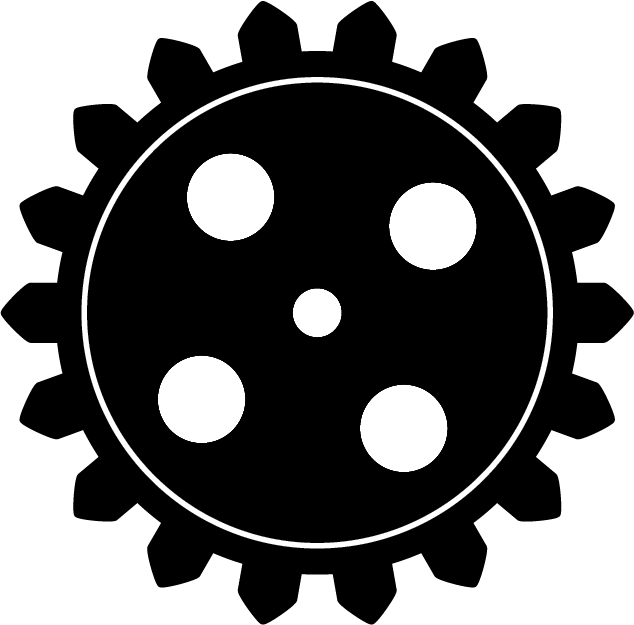
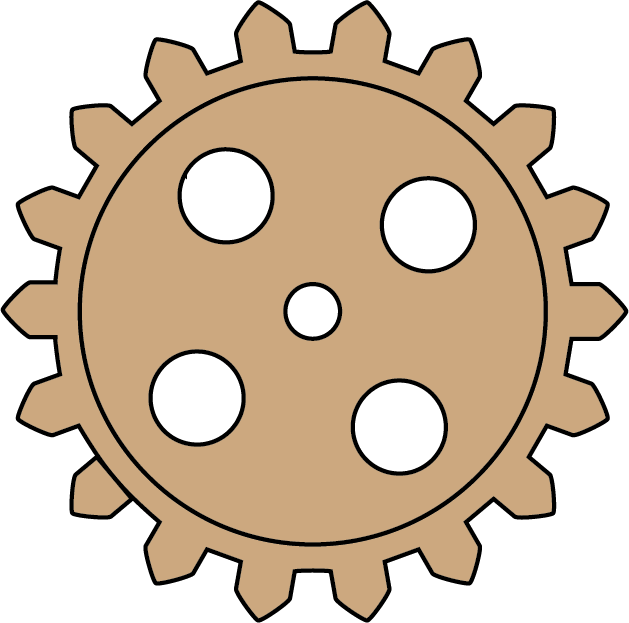
fixed gears

diff --git a/lib/features/presentation/widgets/top_of_the_screen.dart b/lib/features/presentation/widgets/top_of_the_screen.dart
@@ -1,4 +1,3 @@
-
 import 'package:flutter/material.dart';
 import 'package:flutter_bloc/flutter_bloc.dart';
 import 'package:statrco/features/presentation/constants.dart';
@@ -6,8 +5,6 @@ import 'package:statrco/features/presentation/cubit/turing_cubit.dart';
 import 'package:statrco/features/presentation/widgets/turing_list_view.dart';
 
 import '../cubit/turing_state.dart';
-
-
 
 class TopOfTheScreen extends StatelessWidget {
   const TopOfTheScreen({
@@ -19,46 +16,64 @@ class TopOfTheScreen extends StatelessWidget {
 
   @override
   Widget build(BuildContext context) {
-    return Column(
-      mainAxisAlignment: MainAxisAlignment.center,
-      children: [
-        BlocBuilder<TuringCubit, OneStep>(
-          builder: (context, state) {
-                
-            if (ctrlList.hasClients) {
-              int index = state.indexInList;
-              if (index ==0) {
-                index = 100;
-              }
-              ctrlList.animateTo(
-                 index * cellWidth -
-                      displayWidth(context) / 2 +
-                      cellWidth / 2,
-                  curve: Curves.elasticInOut,
-                  duration: Duration(milliseconds: (context.read<TuringCubit>().duration*(3/4)).toInt()));
-            }
-                
-            // oneMove *5- displayWidth(context)/2+oneMove/2;
-            return Column(
-              children: [
-            TuringListView(
-              list: state.list,
-              controller: ctrlList,
-            ),
-            Center(
-              child: SizedBox(
-                  height: 55,
-                  width: 77,
-                  child: Image.asset(
-                    "assets/photos/arrow.png",
-                    fit: BoxFit.contain,
-                  )),
-            )
-              ],
-            );
-          },
-        ),
-      ],
+    return BlocBuilder<TuringCubit, OneStep>(
+      builder: (context, state) {
+        if (ctrlList.hasClients) {
+          int index = state.indexInList;
+          if (index == 0) {
+            index = 100;
+          }
+          ctrlList.animateTo(
+              index * cellWidth - displayWidth(context) / 2 + cellWidth / 2,
+              curve: Curves.elasticInOut,
+              duration: Duration(
+                  milliseconds: (context.read<TuringCubit>().duration * (3 / 4))
+                      .toInt()));
+        }
+
+        // oneMove *5- displayWidth(context)/2+oneMove/2;
+        return Container(
+          padding: EdgeInsets.only(top: 15),
+          child: Stack(
+            // alignment: AlignmentDirectional.center,
+            children: [
+              TuringListView(
+                list: state.list,
+                controller: ctrlList,
+              ),
+              Stack(
+                // fit: StackFit.expand,
+                alignment: AlignmentDirectional.center,
+                children: [
+                  Positioned(
+                    top: 77,
+                    child: SizedBox(
+                        height: 55,
+                        width: 77,
+                        child: Image.asset(
+                          "assets/photos/arrow.png",
+                          fit: BoxFit.contain,
+                        )),
+                  ),
+                  Positioned(
+                    top: 111,
+                    child: SizedBox(
+                        height: 188,
+                        width: 188,
+                        child: Image.asset(
+                          "assets/photos/tablo.png",
+                          fit: BoxFit.contain,
+                        )),
+                  ),
+                  Positioned(
+                    top: 129,
+                    child: Text(state.currentState))
+                ],
+              ),
+            ],
+          ),
+        );
+      },
     );
   }
 }

diff --git a/lib/features/presentation/pages/turing_machine_page.dart b/lib/features/presentation/pages/turing_machine_page.dart
@@ -1,6 +1,5 @@
 import 'package:flutter/material.dart';
 import 'package:flutter_bloc/flutter_bloc.dart';
-import 'package:statrco/features/presentation/widgets/gear.dart';
 import 'package:statrco/features/presentation/widgets/settings.dart';
 
 import '../../domain/entities/infinit_list_model.dart';
@@ -25,7 +24,6 @@ class _TuringMachinePageState extends State<TuringMachinePage> {
   Widget build(BuildContext context) {
     return Scaffold(
         appBar: AppBar(
-          
           backgroundColor: Colors.black12,
           title: Row(
             children: [
@@ -39,44 +37,44 @@ class _TuringMachinePageState extends State<TuringMachinePage> {
                     context.read<TuringCubit>().stop();
                   },
                   icon: const Icon(Icons.pause)),
-
               const Spacer(),
-
               IconButton(
                   onPressed: () {
                     showModalBottomSheet(
-                      shape: const RoundedRectangleBorder(
-                        borderRadius: BorderRadius.vertical(
-                          top: Radius.circular(15)
-                        )
-                      ),
-                      context: context, builder: ((context) => const Settings()));
+                        shape: const RoundedRectangleBorder(
+                            borderRadius: BorderRadius.vertical(
+                                top: Radius.circular(15))),
+                        context: context,
+                        builder: ((context) => const Settings()));
                   },
                   icon: const Icon(Icons.settings)),
             ],
           ),
         ),
-        
         body: BlocBuilder<TuringCubit, OneStep>(
           builder: (context, state) {
             // context.read<TuringCubit>().init();
 
             return Container(
-              color: Color.fromRGBO(207, 178, 135, 1),
               // decoration: const BoxDecoration(image: DecorationImage(image: AssetImage("assets/photos/background_top.png")) ),
-              child: Column(
+              child: Stack(
                 children: [
-                  Flexible(
-                    flex: 3,
-                    child: Stack(                      
-                      children: [
-                        BackgroundGears(),
-                        TopOfTheScreen(ctrlList: ctrlList),
-                      ],
-                      
-                    ),
+
+                  Column(
+                    children: [
+                      Flexible(
+                        flex: 3,
+                        child: Stack(
+                          
+                          children: [
+                            const BackgroundGears(),
+                            TopOfTheScreen(ctrlList: ctrlList),
+                          ],
+                        ),
+                      ),
+                       Flexible(flex: 2, child: BottomPartOfScreen()),
+                    ],
                   ),
-                  const Flexible(flex: 2, child: BottomPartOfScreen()),
                 ],
               ),
             );
@@ -84,5 +82,3 @@ class _TuringMachinePageState extends State<TuringMachinePage> {
         ));
   }
 }
-
-

diff --git a/lib/features/presentation/widgets/bottom_part_of_screen.dart b/lib/features/presentation/widgets/bottom_part_of_screen.dart
@@ -1,4 +1,3 @@
-
 import 'package:flutter/material.dart';
 import 'package:flutter_bloc/flutter_bloc.dart';
 import 'package:statrco/features/presentation/widgets/table.dart';
@@ -6,18 +5,19 @@ import 'package:statrco/features/presentation/widgets/table.dart';
 import '../cubit/table_cubit.dart';
 
 class BottomPartOfScreen extends StatelessWidget {
-  const BottomPartOfScreen({
+   BottomPartOfScreen({
     Key? key,
   }) : super(key: key);
+final TextEditingController controller =TextEditingController(text: "0");
 
   @override
   Widget build(BuildContext context) {
     return Container(
       decoration: const BoxDecoration(
-        border: Border(top: BorderSide(width: 3,color: Color.fromARGB(255, 58, 41, 29))),
-      color: 
-      Color.fromARGB(81, 0, 0, 0),
-      // Color.fromARGB(255, 177, 134, 75),
+        border: Border(
+            top: BorderSide(width: 3, color: Color.fromARGB(255, 58, 41, 29))),
+        color: Color.fromARGB(40, 70, 0, 0),
+        // Color.fromARGB(255, 177, 134, 75),
       ),
       child: InteractiveViewer(
         maxScale: 2,
@@ -31,9 +31,10 @@ class BottomPartOfScreen extends StatelessWidget {
               crossAxisAlignment: CrossAxisAlignment.start,
               children: [
                 Container(
-                  padding: const EdgeInsets.all(7),
+                    padding: const EdgeInsets.all(7),
                     decoration: BoxDecoration(
-                      border: Border.all(width: 3,color: const Color.fromRGBO(82, 59, 43, 1)),
+                      border: Border.all(
+                          width: 3, color: const Color.fromRGBO(82, 59, 43, 1)),
                       borderRadius: BorderRadius.circular(12),
                       color: const Color.fromARGB(255, 154, 125, 83),
                     ),
@@ -52,11 +53,21 @@ class BottomPartOfScreen extends StatelessWidget {
             //       onEditingComplete: (() =>
             //           context.read<TableCubit>().addA("a")),
             //     )),
-            IconButton(
-                onPressed: () {
-                  context.read<TableCubit>().addA("");
-                },
-                icon: const Icon(Icons.plus_one_outlined)),
+            Row(
+              children: [
+                IconButton(
+                    onPressed: () {
+                      context.read<TableCubit>().addA(controller.text);
+                    },
+                    icon: const Icon(Icons.plus_one_outlined)),
+                    SizedBox(width: 155,
+                      child: TextField(controller: controller,
+                      onEditingComplete: () {
+                         context.read<TableCubit>().addA(controller.text);
+                      },
+                      )),
+              ],
+            ),
           ],
         ),
       ),

diff --git a/lib/features/presentation/widgets/gear.dart b/lib/features/presentation/widgets/gear.dart
@@ -24,7 +24,6 @@ class SmallGear extends TypeGear {
 
   @override
   double getScale() => 1.2;
-
 }
 
 class BigGear extends TypeGear {
@@ -42,12 +41,18 @@ class Gear extends StatelessWidget {
       required this.typeGear,
       this.clockwise = true,
       this.connectedWith = const BigGear(),
-      this.initialtTurn = 0});
+      this.initialtTurn = 0,
+      this.darker = 1,
+      this.scale = 1,
+      this.speed = 1});
   final TypeGear typeGear;
   final TypeGear connectedWith;
   final bool clockwise;
   final double initialtTurn;
+  final double darker;
+  final int scale;
   int prevIndex = 0;
+  final double speed;
   @override
   Widget build(BuildContext context) {
     return BlocBuilder<TuringCubit, OneStep>(
@@ -59,13 +64,23 @@ class Gear extends StatelessWidget {
             turns: state.indexInList.toDouble() *
                     (clockwise ? -1 : 1) *
                     (connectedWith.getDiameter() / typeGear.getDiameter()) /
-                    18 +
+                    18 *
+                    speed +
                 initialtTurn,
-            child: Image.asset(
-              typeGear.getAsset(),
-              height: typeGear.getDiameter()*typeGear.getScale(),
-              width: typeGear.getDiameter()*typeGear.getScale(),
-              // fit: BoxFit.none,
+            child: ColorFiltered(
+              colorFilter: ColorFilter.mode(
+                Color.fromARGB(255, (255 * darker).toInt(),
+                    (255 * darker).toInt(), (255 * darker).toInt()),
+                BlendMode.modulate,
+              ),
+              child: Image.asset(
+                typeGear.getAsset(),
+
+                // color: const Color.fromARGB(255, 196, 168, 127),
+                height: typeGear.getDiameter() * typeGear.getScale() * scale,
+                width: typeGear.getDiameter() * typeGear.getScale() * scale,
+                // fit: BoxFit.none,
+              ),
             ));
       },
     );

diff --git a/lib/features/presentation/widgets/background_gears.dart b/lib/features/presentation/widgets/background_gears.dart
@@ -14,12 +14,37 @@ class BackgroundGears extends StatelessWidget {
             top: 5,
             left: small.getDiameter() * small.getScale() - 55,
             child: Gear(
+              darker: 0.8,
               initialtTurn: 1.5,
               typeGear: const BigGear(),
               clockwise: false,
             )),
         Positioned(
-            top: 0, child: Gear(typeGear: const SmallGear(), clockwise: true)),
+            top: 0, child: Gear(darker: 0.8, typeGear: const SmallGear())),
+        Positioned(
+            left: 135,
+            top: 111,
+            child: Gear(
+              initialtTurn: 0.1,
+              typeGear: const BigGear(),
+            )),
+        Positioned(
+            left: big.getDiameter() * 3 + 108,
+            top: 111,
+            child: Gear(
+              initialtTurn: 0.09,
+              clockwise: false,
+              typeGear: const BigGear(),
+            )),
+        Positioned(
+            right: -big.getDiameter() * 3,
+            child: Gear(
+              speed: 1 / 5,
+              scale: 2,
+              darker: 0.4,
+              initialtTurn: 0.09,
+              typeGear: const BigGear(),
+            )),
       ],
     );
   }

diff --git a/lib/features/presentation/cubit/turing_cubit.dart b/lib/features/presentation/cubit/turing_cubit.dart
@@ -28,6 +28,12 @@ class TuringCubit extends Cubit<OneStep> {
   void run() async {
     if (running) return;
     running = true;
+    if (curPos == 0) {
+      curPos = list.lastNN;
+    }
+    if (curPos == 0) {
+      curPos = 100;
+    }
     while (true) {
       if (!running || table[Pair(curState, list[curPos])]!.isNull()) {
         return;
@@ -48,9 +54,7 @@ class TuringCubit extends Cubit<OneStep> {
   }
 
   void execute() {
-    if (curPos == 0) {
-      curPos = list.lastNN;
-    }
+    
     var cmd = table[Pair(curState, list[curPos])]!;
     if (cmd.rewrite != "") list[curPos] = cmd.rewrite;
     if (cmd.nextState != "") curState = cmd.nextState;
